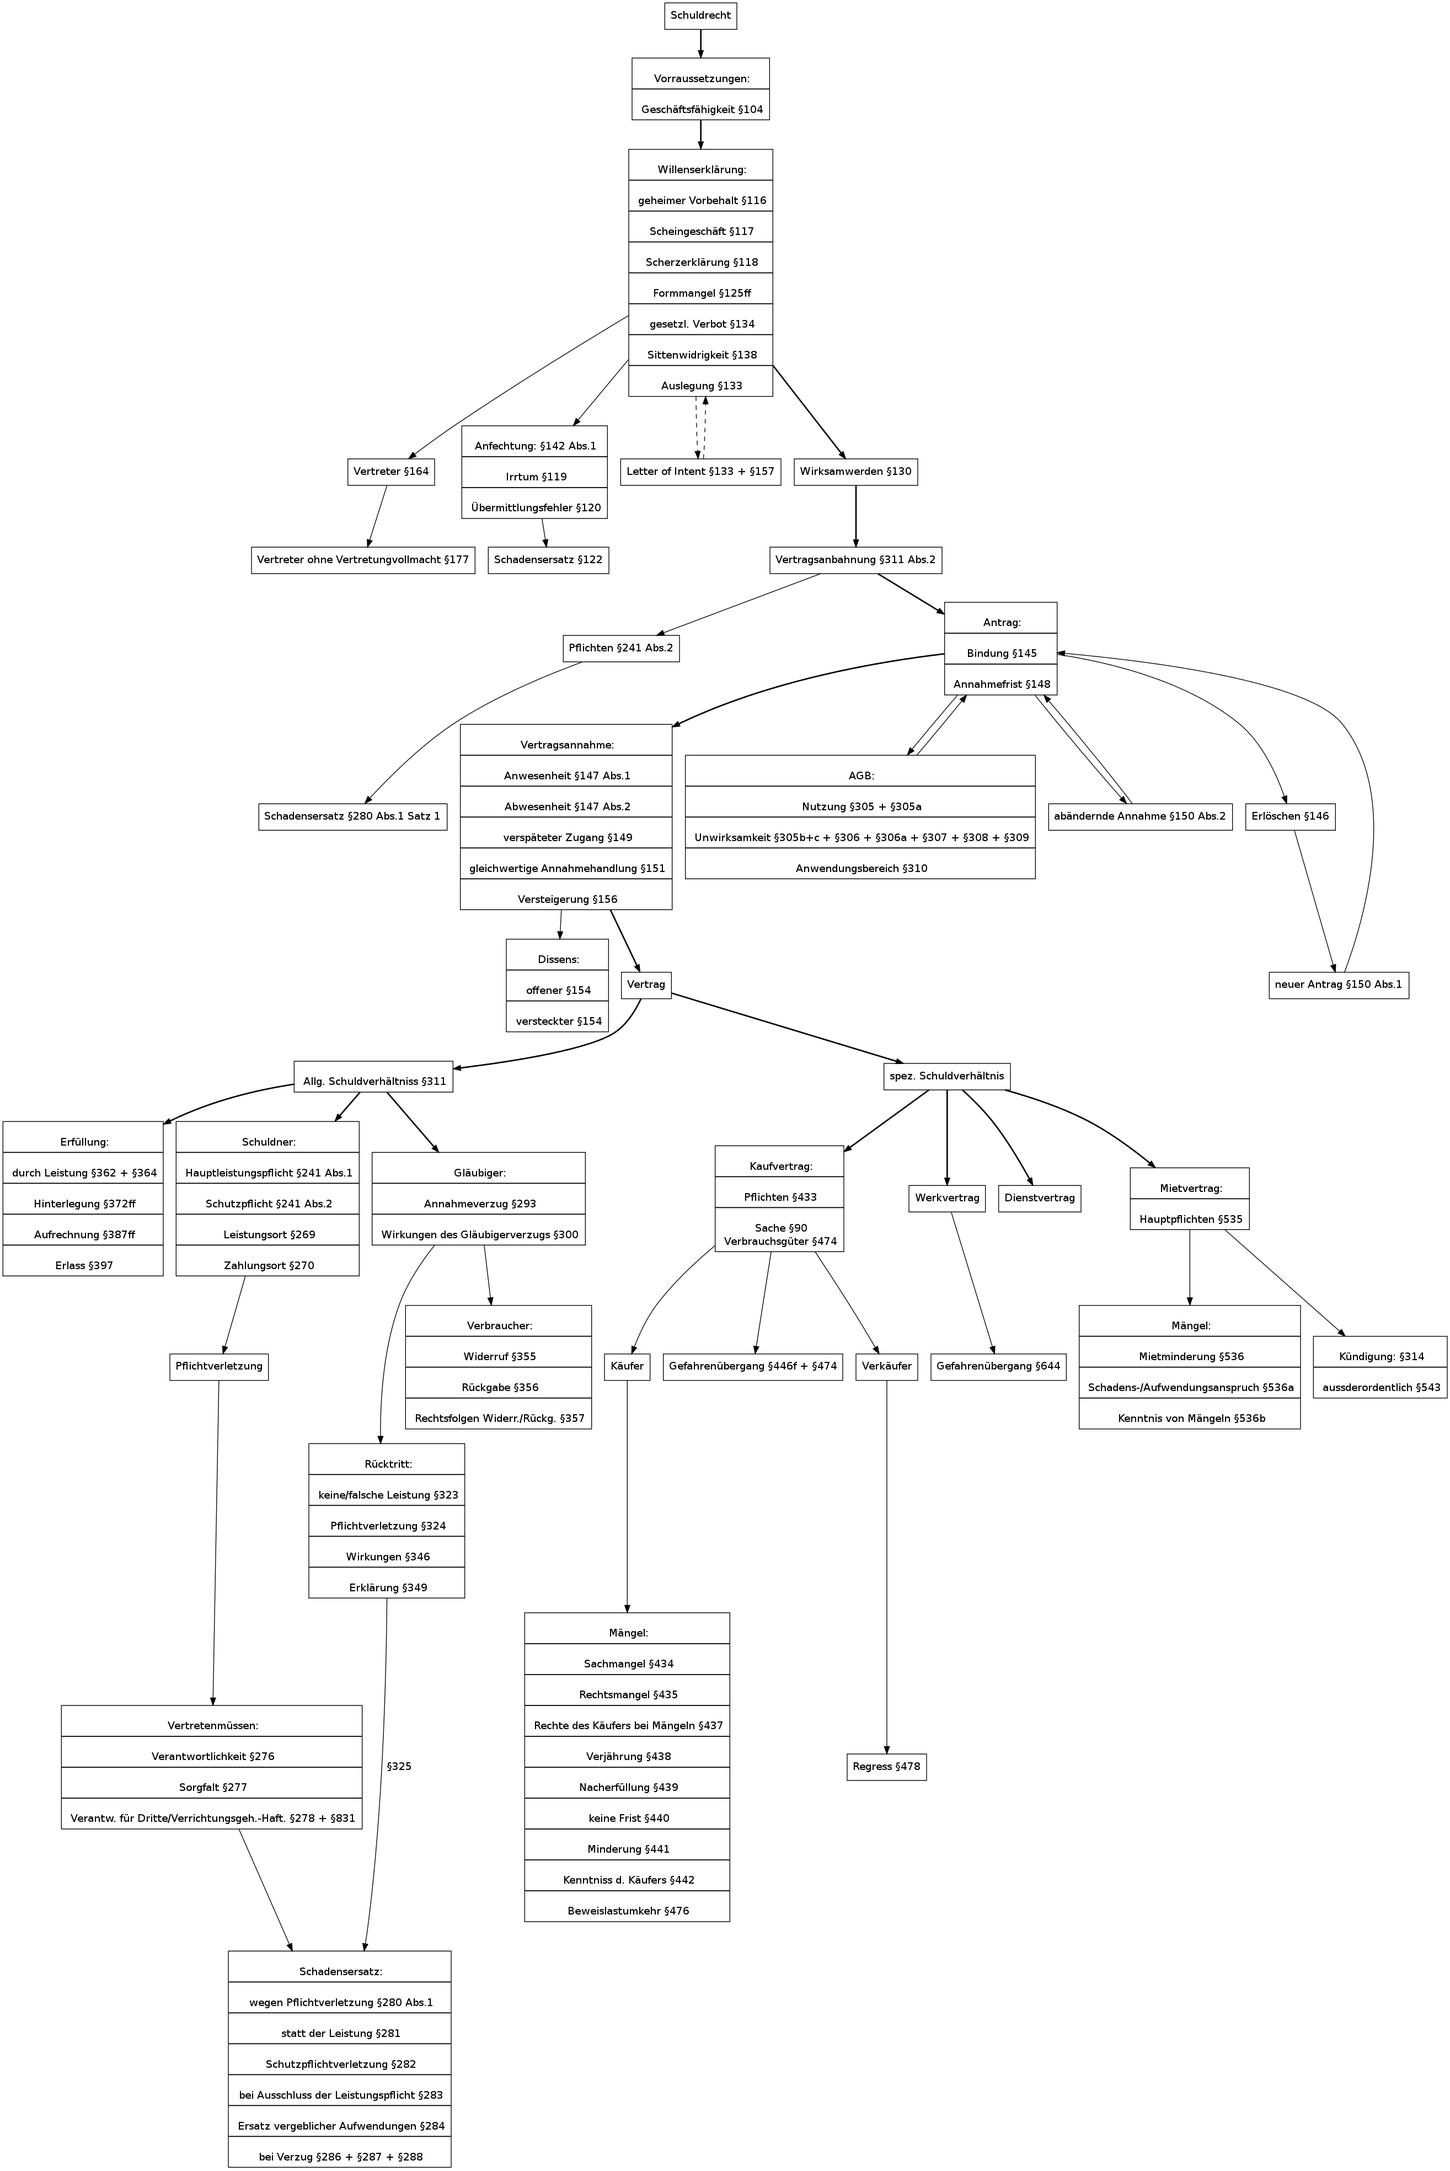
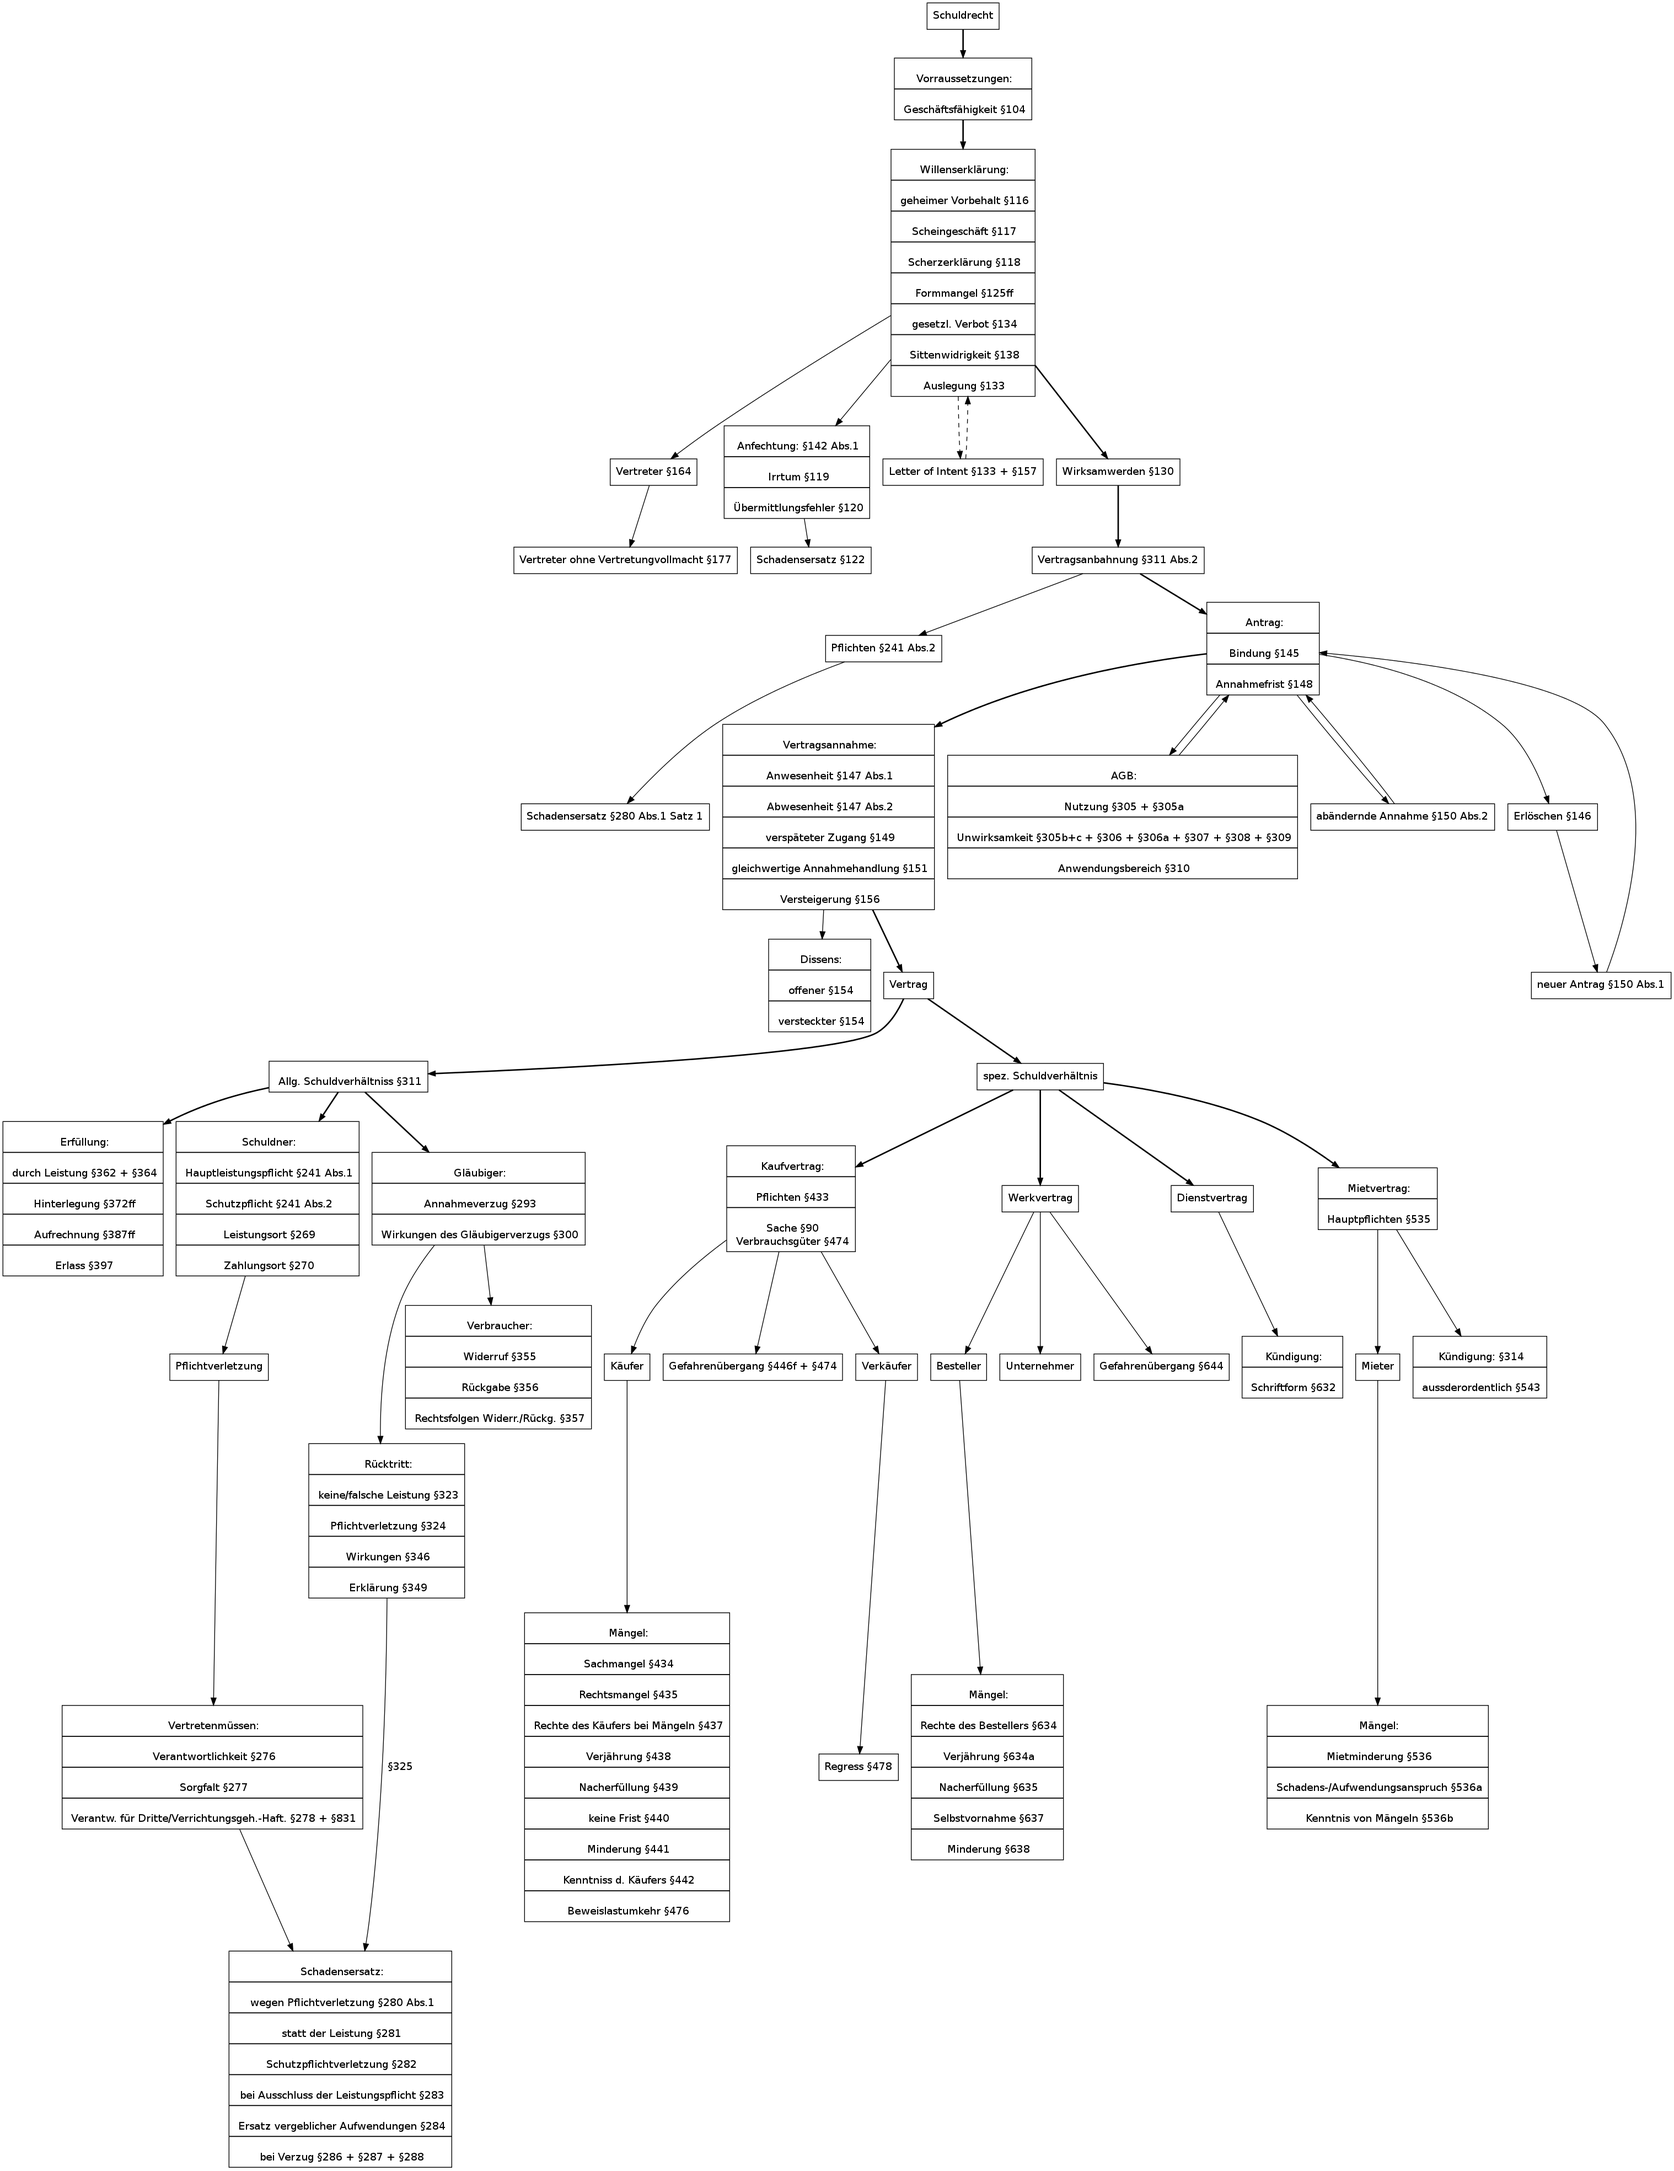
wv maengel

diff --git a/graph.rb b/graph.rb
@@ -132,13 +132,26 @@ kv_verkaeufer = g.add_nodes("Verkäufer")
 kv_regress = g.add_nodes("Regress §478")
 
 wv = g.add_nodes( "Werkvertrag" )
+wv_besteller = g.add_nodes( "Besteller" )
+wv_unternehmer = g.add_nodes( "Unternehmer" )
 wv_gefahr = g.add_nodes("Gefahrenübergang §644")
+wv_maengel = g.add_nodes( "Mängel_dv", "shape" => "record", "label" => "{
+  Mängel: |
+  Rechte des Bestellers §634 |
+  Verjährung §634a |
+  Nacherfüllung §635 |
+  Selbstvornahme §637 |
+  Minderung §638}")
 
 dv = g.add_nodes( "Dienstvertrag" )
+dv_kuendigung = g.add_nodes( "Kündigung_dv", "shape" => "record", "label" => "{
+  Kündigung: |
+  Schriftform §632}")
 
 mv = g.add_nodes( "Mietvertrag" , "shape" => "record", "label" => "{
   Mietvertrag: |
   Hauptpflichten §535}")
+mv_mieter = g.add_nodes( "Mieter" )
 mv_maengel = g.add_nodes( "Mängel2" , "shape" => "record", "label" => "{
   Mängel: |
   Mietminderung §536 |
@@ -195,13 +208,18 @@ g.add_edges( kv, kv_gefahr)
 g.add_edges( kv_verkaeufer, kv_regress)
 
 g.add_edges( spez_schuldverh, wv , "style" => "bold")
+g.add_edges( wv, wv_besteller)
+g.add_edges( wv, wv_unternehmer)
 g.add_edges( wv, wv_gefahr)
+g.add_edges( wv_besteller, wv_maengel)
 
 g.add_edges( spez_schuldverh, dv , "style" => "bold")
+g.add_edges( dv, dv_kuendigung)
 
 g.add_edges( spez_schuldverh, mv , "style" => "bold")
+g.add_edges( mv, mv_mieter )
 g.add_edges( mv, mv_kuend )
-g.add_edges( mv, mv_maengel )
+g.add_edges( mv_mieter, mv_maengel )
 
 # Generate output image
 g.output( :png => "schuldrecht.png" )
